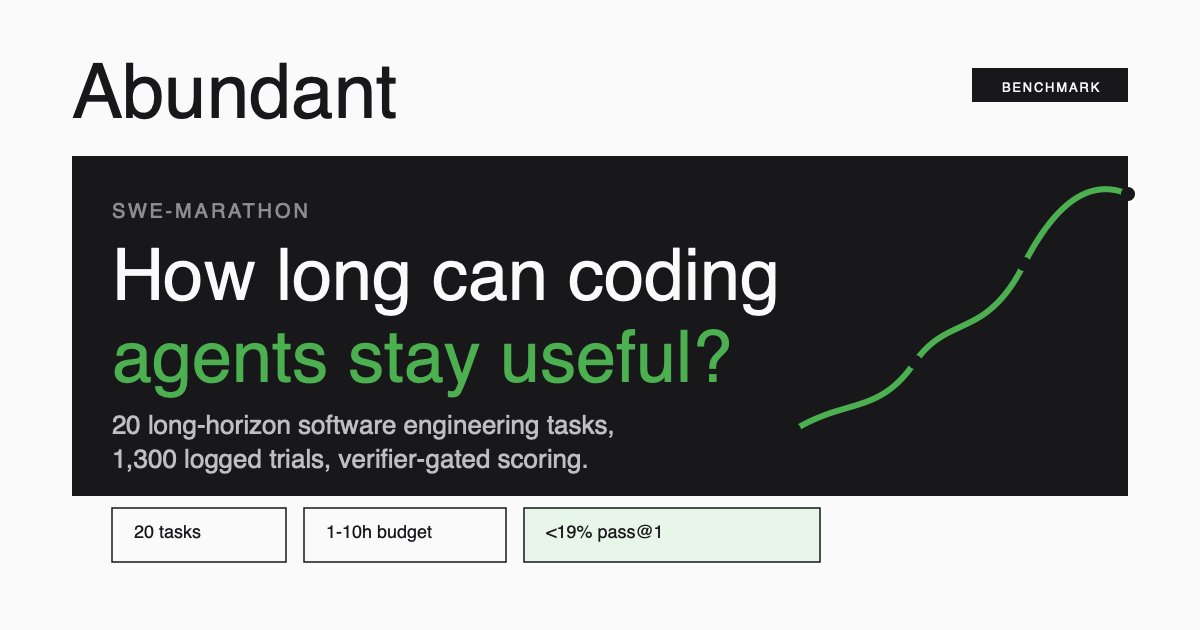
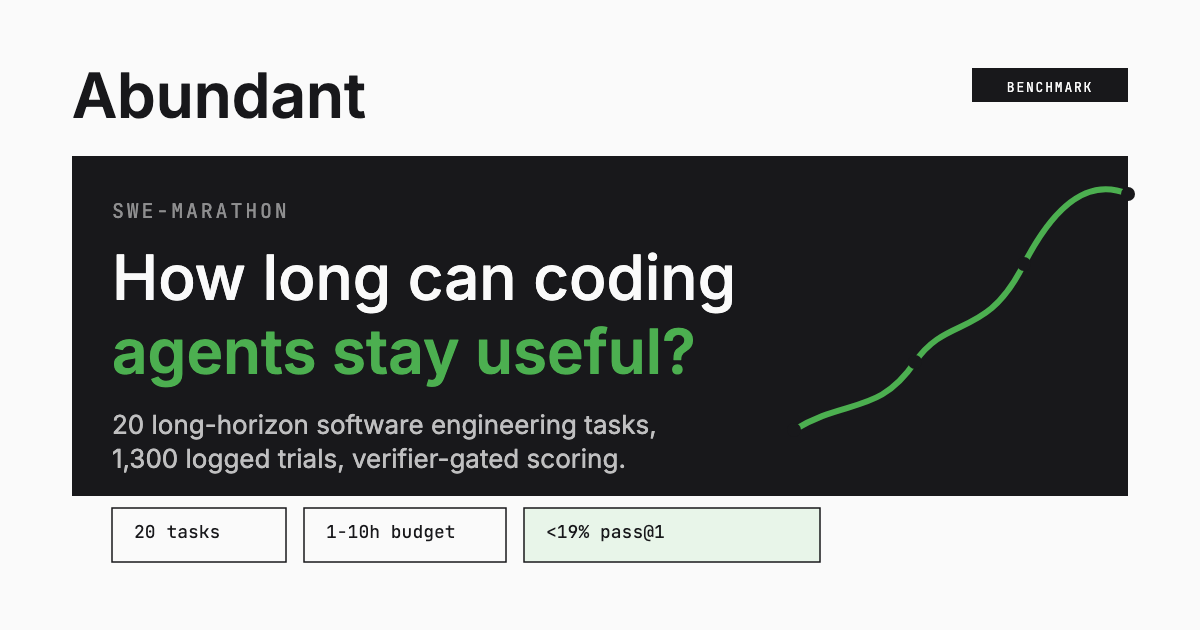
Remove serif headline styling

diff --git a/src/styles.css b/src/styles.css
@@ -12,7 +12,6 @@
     --accent-light: #E8F5E9;
     --pos: #2d7a4f;
     --warn: #B45309;
-    --serif: "Newsreader", "Iowan Old Style", Georgia, serif;
     --sans: "Inter", -apple-system, BlinkMacSystemFont, sans-serif;
     --mono: "JetBrains Mono", ui-monospace, "SF Mono", Menlo, monospace;
   }
@@ -51,7 +50,7 @@
   .brand {
     display: flex; align-items: center; gap: 9px;
     font-family: var(--mono); font-weight: 600; font-size: 13px;
-    letter-spacing: -0.01em; color: var(--ink);
+    letter-spacing: 0; color: var(--ink);
     text-decoration: none;
   }
   .brand:hover { color: var(--accent); }
@@ -212,7 +211,7 @@
   .ascii-scene .l-runner { color: var(--accent); font-weight: 700; font-size: 14px; }
   /* Runner glyphs need to read on top of trees — give them a subtle backdrop */
   .ascii-scene .runner-overlay { color: var(--accent); font-weight: 700; }
-  .ascii-scene .l-ground { color: var(--ink-2); font-size: 13px; letter-spacing: -0.5px; }
+  .ascii-scene .l-ground { color: var(--ink-2); font-size: 13px; letter-spacing: 0; }
   .ascii-scene .l-marker { color: var(--ink-3); font-size: 11px; letter-spacing: 0.18em; text-transform: uppercase; }
   .ascii-scene .runner-body { white-space: pre; display: inline-block; }
 
@@ -231,10 +230,9 @@
     display: inline-block;
   }
   h1.title {
-    font-family: var(--serif); font-weight: 400;
-    font-optical-sizing: auto;
-    font-size: clamp(38px, 5vw, 60px);
-    line-height: 0.98; letter-spacing: -0.02em;
+    font-family: var(--sans); font-weight: 500;
+    font-size: 58px;
+    line-height: 1.05; letter-spacing: 0;
     margin: 0 0 28px; text-wrap: balance;
   }
   h1 .ital { font-style: normal; color: var(--accent); }
@@ -277,8 +275,9 @@
   .stat + .stat { padding-left: 24px; }
   .stat:last-child { border-right: none; }
   .stat-num {
-    font-family: var(--serif); font-weight: 400; font-size: 44px; line-height: 1;
-    color: var(--ink); margin-bottom: 14px; letter-spacing: -0.005em;
+    font-family: var(--sans); font-weight: 500; font-size: 42px; line-height: 1;
+    color: var(--ink); margin-bottom: 14px; letter-spacing: 0;
+    font-variant-numeric: tabular-nums;
   }
   .stat-num .unit { font-size: 20px; color: var(--ink-3); margin-left: 4px; font-weight: 400; }
   .stat-label {
@@ -298,9 +297,8 @@
   }
   .section-no .dot { color: var(--accent); margin-right: 6px; }
   h2.section-title {
-    font-family: var(--serif); font-weight: 400;
-    font-optical-sizing: auto;
-    font-size: 40px; line-height: 1.05; letter-spacing: -0.01em;
+    font-family: var(--sans); font-weight: 500;
+    font-size: 38px; line-height: 1.08; letter-spacing: 0;
     margin: 0; text-wrap: balance;
   }
   .section-title .ital { font-style: normal; }
@@ -542,8 +540,8 @@
     font-weight: 500;
   }
   .task-title {
-    font-family: var(--serif); font-size: 22px; line-height: 1.15;
-    margin: 0 0 8px; letter-spacing: -0.01em;
+    font-family: var(--sans); font-size: 22px; line-height: 1.15;
+    margin: 0 0 8px; letter-spacing: 0;
     font-weight: 400;
   }
   .task-desc {
@@ -570,8 +568,8 @@
   .task-hero { padding-top: 48px; }
   .task-hero .back-link { margin-bottom: 14px; }
   .task-hero .title {
-    font-size: clamp(38px, 5vw, 56px);
-    line-height: 1.0;
+    font-size: 48px;
+    line-height: 1.05;
     margin-bottom: 12px;
   }
   .task-hero .lede {
@@ -596,12 +594,12 @@
   }
   .task-inspiration a:hover { border-bottom-color: var(--accent); }
   .task-page-title {
-    font-family: var(--serif);
-    font-weight: 400;
-    font-size: clamp(42px, 6vw, 72px);
-    line-height: 0.98;
+    font-family: var(--sans);
+    font-weight: 500;
+    font-size: 56px;
+    line-height: 1.05;
     margin: 0 0 18px;
-    letter-spacing: -0.02em;
+    letter-spacing: 0;
   }
   .task-page-lede {
     max-width: 660px;
@@ -631,7 +629,7 @@
     background: var(--bg);
   }
   .task-result-value {
-    font-family: var(--serif);
+    font-family: var(--sans);
     font-size: 38px;
     line-height: 1;
     color: var(--ink);
@@ -677,7 +675,7 @@
   }
   .verifier-grid h3 {
     margin: 0 0 14px;
-    font-family: var(--serif);
+    font-family: var(--sans);
     font-size: 24px;
     font-weight: 400;
   }
@@ -714,7 +712,7 @@
     font-family: var(--sans);
     font-size: 14px;
     font-weight: 500;
-    letter-spacing: -0.005em;
+    letter-spacing: 0;
     transition: color 0.15s ease, background 0.15s ease, box-shadow 0.15s ease;
   }
   .sample-tab:hover {
@@ -763,7 +761,7 @@
   }
   .sample-markdown h4 {
     margin: 14px 0 5px;
-    font-family: var(--serif);
+    font-family: var(--sans);
     font-size: 17px;
     line-height: 1.15;
     font-weight: 500;
@@ -907,7 +905,7 @@
   }
   .verifier-group h4 {
     margin: 0 0 10px;
-    font-family: var(--serif);
+    font-family: var(--sans);
     font-size: 28px;
     line-height: 1.1;
     font-weight: 400;
@@ -1038,7 +1036,7 @@
   }
   .artifact-head h3 {
     margin: 0;
-    font-family: var(--serif);
+    font-family: var(--sans);
     font-weight: 400;
     font-size: 28px;
     line-height: 1.1;
@@ -1111,7 +1109,7 @@
   .artifact-option.active span.artifact-option-tag { color: var(--bg); opacity: 0.92; }
   .artifact-option b {
     display: block;
-    font-family: var(--serif);
+    font-family: var(--sans);
     font-size: 24px;
     line-height: 1;
     font-weight: 400;
@@ -1296,7 +1294,7 @@
     letter-spacing: 0.1em;
   }
   .metric-value {
-    font-family: var(--serif);
+    font-family: var(--sans);
     font-size: 34px;
     line-height: 1;
     color: var(--ink);
@@ -1454,7 +1452,7 @@
     vertical-align: middle;
   }
   .task-lb-score {
-    font-family: var(--serif);
+    font-family: var(--sans);
     font-size: 19px;
     line-height: 1;
     color: var(--ink);
@@ -1725,7 +1723,7 @@
   }
   .step-readout h4 {
     margin: 0 0 8px;
-    font-family: var(--serif);
+    font-family: var(--sans);
     font-size: 22px;
     line-height: 1.1;
     font-weight: 400;
@@ -1773,7 +1771,7 @@
     margin-bottom: 8px; letter-spacing: 0.1em;
   }
   .pipe-title {
-    font-family: var(--serif); font-size: 19px; line-height: 1.15; font-weight: 400;
+    font-family: var(--sans); font-size: 19px; line-height: 1.15; font-weight: 400;
     margin: 0 0 6px;
   }
   .pipe-desc { font-size: 12px; color: var(--ink-2); line-height: 1.45; }
@@ -1800,8 +1798,8 @@
     margin-bottom: 12px;
   }
   .find-h {
-    font-family: var(--serif); font-size: 26px; line-height: 1.1;
-    margin: 0 0 12px; letter-spacing: -0.01em;
+    font-family: var(--sans); font-size: 26px; line-height: 1.1;
+    margin: 0 0 12px; letter-spacing: 0;
     text-wrap: balance;
   }
   .find-body { font-size: 14px; color: var(--ink-2); line-height: 1.55; }
@@ -1968,7 +1966,7 @@
   }
   .bib-num {
     font-family: var(--mono); font-weight: 700; font-size: 22px;
-    letter-spacing: -0.02em;
+    letter-spacing: 0;
   }
   .bib-km {
     font-family: var(--mono); font-size: 10px; color: rgba(250, 250, 250, 0.6);
@@ -1976,7 +1974,7 @@
   }
   .bib-body { padding: 14px 16px 18px; }
   .bib-title {
-    font-family: var(--serif); font-size: 19px; line-height: 1.15; font-weight: 400;
+    font-family: var(--sans); font-size: 19px; line-height: 1.15; font-weight: 400;
     margin: 0 0 6px;
   }
   .bib-desc { font-size: 12px; color: var(--ink-2); line-height: 1.45; }
@@ -2070,7 +2068,7 @@
       margin-bottom: 22px;
     }
     .hero .eyebrow::before { display: none; }
-    .hero h1.title { font-size: clamp(34px, 10vw, 46px); }
+    .hero h1.title { font-size: 40px; }
     .hero h1 .ital { white-space: nowrap; }
     .stats-strip { grid-template-columns: repeat(2, 1fr); gap: 0; }
     .stat:nth-child(2n) { border-right: none; }
@@ -2143,7 +2141,7 @@
     letter-spacing: 0.12em; text-transform: uppercase;
   }
   .anal-tab-t {
-    font-family: var(--serif); font-size: 20px; line-height: 1.15; font-weight: 400;
+    font-family: var(--sans); font-size: 20px; line-height: 1.15; font-weight: 400;
     margin-top: 2px;
   }
   .anal-tab-s {
@@ -2170,8 +2168,8 @@
     text-transform: uppercase; letter-spacing: 0.14em; margin-bottom: 6px;
   }
   .anal-card-title {
-    font-family: var(--serif); font-weight: 400;
-    font-size: 26px; line-height: 1.15; letter-spacing: -0.01em;
+    font-family: var(--sans); font-weight: 500;
+    font-size: 26px; line-height: 1.15; letter-spacing: 0;
     margin: 0 0 8px;
   }
   .anal-card-title em { font-style: normal; color: var(--accent); }

diff --git a/src/App.jsx b/src/App.jsx
@@ -456,7 +456,7 @@ function FoxRunner() {
         ctx.strokeRect(CW / 2 - 220, CH / 2 - 40, 440, 80);
         ctx.fillStyle = COL_SILHOUETTE;
         ctx.textAlign = "center";
-        ctx.font = '700 16px Newsreader, Georgia, serif';
+        ctx.font = '600 16px Inter, -apple-system, BlinkMacSystemFont, sans-serif';
         // Cycle thru a few flavor messages so it doesn't always say the same thing
         const dnfMsgs = [
           "Lost coherence at " + s.score.toFixed(2) + " Mtok",
@@ -538,8 +538,9 @@ function Hero() {
       <div className="container">
         <div className="eyebrow">SWE-MARATHON · 20 LONG-HORIZON TASKS · 1,300 LOGGED TRIALS</div>
         <h1 className="title">
-          Can agents autonomously complete<br />
-          <span className="ital">ultra-long-horizon</span> software work?
+          Can agents autonomously<br />
+          complete <span className="ital">ultra-long-horizon</span><br />
+          software work?
         </h1>
         <p className="lede">
           <strong>SWE-Marathon</strong> is a benchmark of <strong>20 multi-hour</strong> software-engineering

diff --git a/index.html b/index.html
@@ -39,7 +39,7 @@
     <link rel="preconnect" href="https://fonts.googleapis.com" />
     <link rel="preconnect" href="https://fonts.gstatic.com" crossorigin />
     <link
-      href="https://fonts.googleapis.com/css2?family=Inter:wght@300;400;500;600;700&family=JetBrains+Mono:wght@400;500;600&family=Newsreader:opsz,wght@6..72,300;6..72,400;6..72,500&display=swap"
+      href="https://fonts.googleapis.com/css2?family=Inter:wght@300;400;500;600;700&family=JetBrains+Mono:wght@400;500;600&display=swap"
       rel="stylesheet"
     />
   </head>